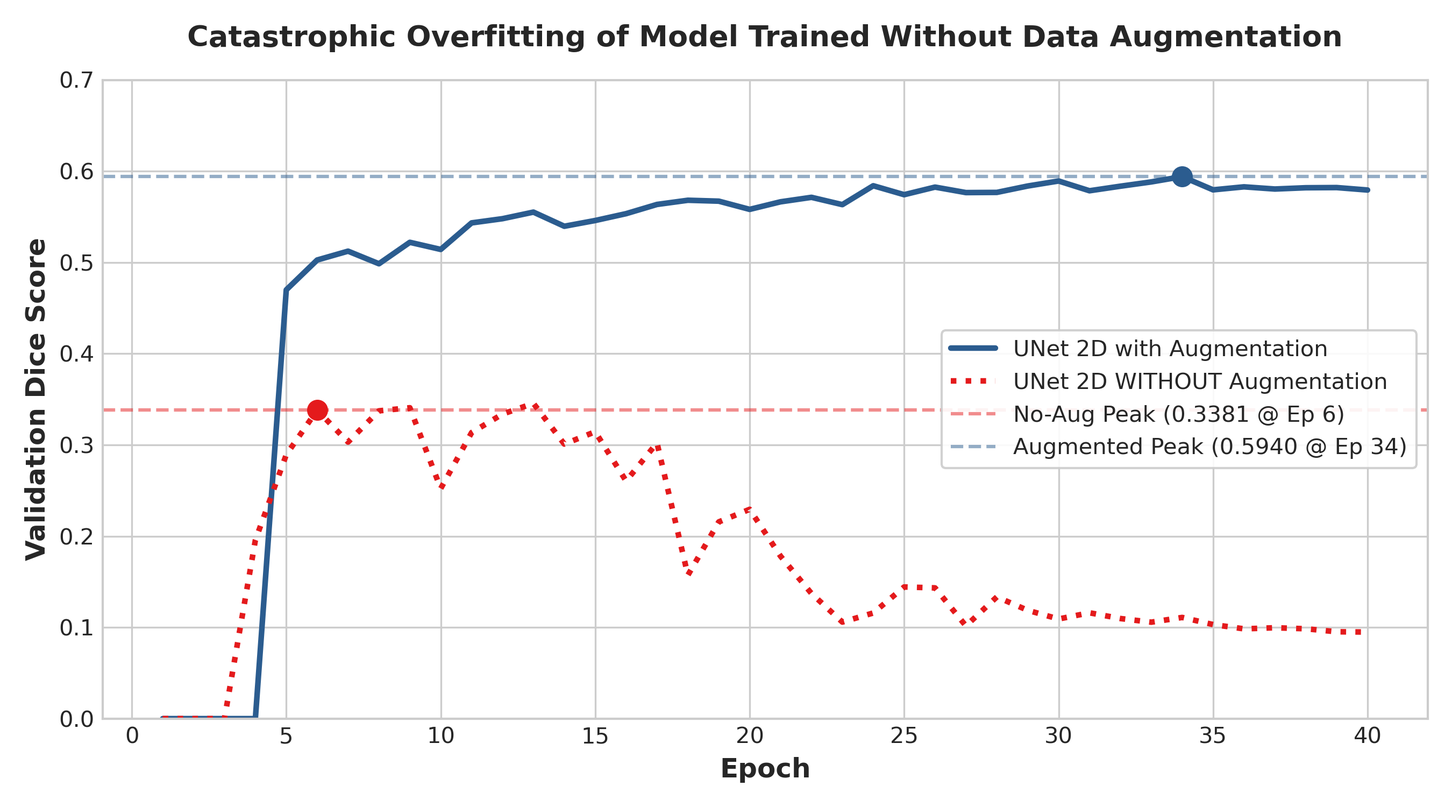
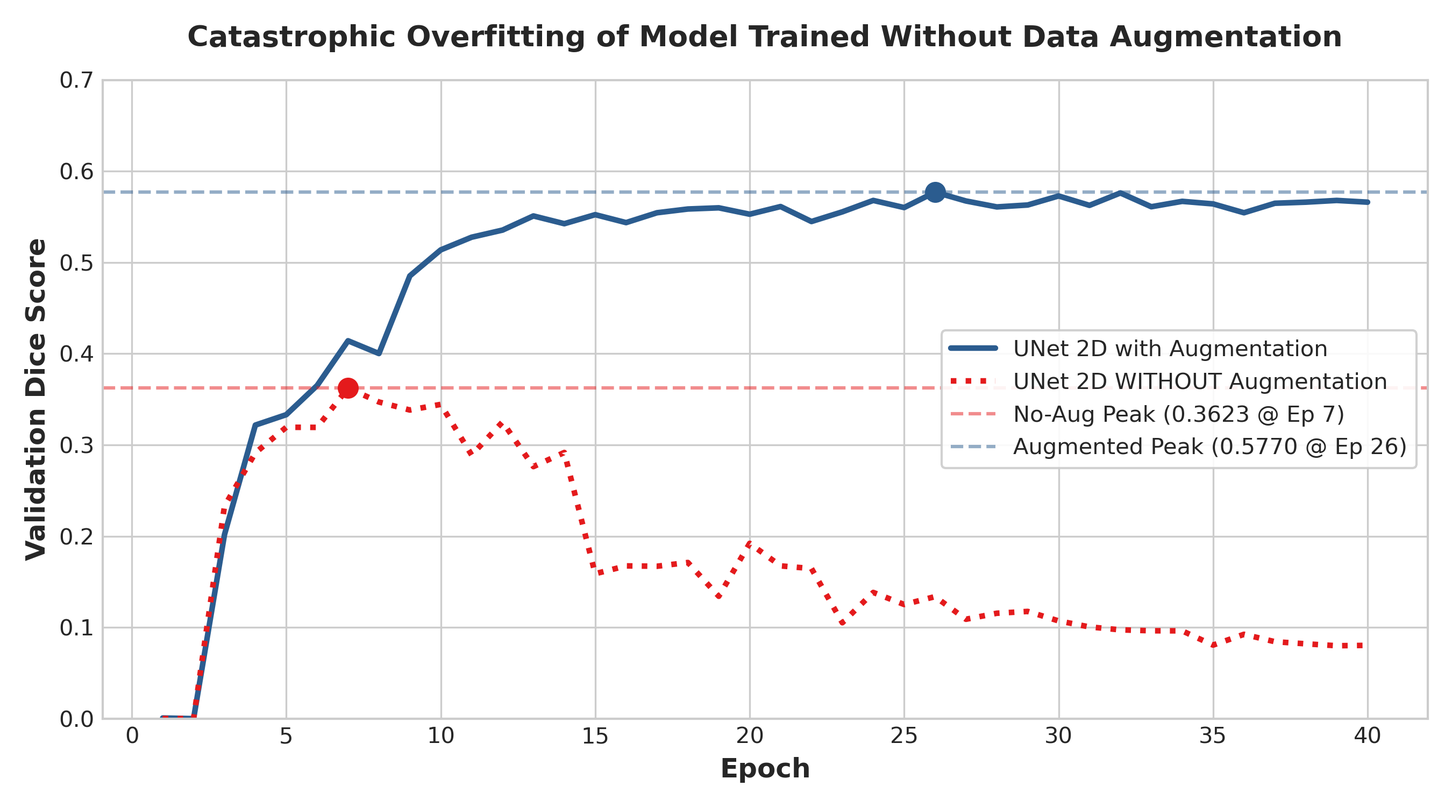
Update the readme and charts to match new evaluation data

diff --git a/README.md b/README.md
@@ -3,9 +3,8 @@
 [![Python 3.12](https://img.shields.io/badge/python-3.12-blue.svg)](https://www.python.org/downloads/release/python-3120/)
 [![PyTorch](https://img.shields.io/badge/PyTorch-2.0%2B-ee4c2c.svg)](https://pytorch.org/)
 [![MONAI](https://img.shields.io/badge/MONAI-1.3.0%2B-5c2d91.svg)](https://monai.io/)
-[![License: MIT](https://img.shields.io/badge/License-MIT-yellow.svg)](https://opensource.org/licenses/MIT)
 
-A end-to-end, high-performance deep learning framework for **2D and 2.5D pulmonary nodule segmentation** on thoracic Computed Tomography (CT) scans from the **LIDC-IDRI** dataset. Built with PyTorch and MONAI, this project implements DICOM preprocessing, majority-voting consensus annotation, dynamic negative slice sampling, mixed-precision training, and a 4-level hierarchical evaluation suite comparing multiple deep neural architectures across varied loss functions, spatial context representations, and data augmentation regimes.
+An end-to-end, high-performance deep learning framework for **2D and 2.5D pulmonary nodule segmentation** on thoracic Computed Tomography (CT) scans from the **LIDC-IDRI** dataset. Built with PyTorch and MONAI, this project implements DICOM preprocessing, majority-voting consensus annotation, dynamic negative slice sampling, mixed-precision training, parameter validation sweeps, and a 4-level hierarchical evaluation suite comparing multiple deep neural architectures across varied loss functions, spatial context representations, and data augmentation regimes.
 
 ---
 
@@ -16,7 +15,7 @@ The **Lung Image Database Consortium and Image Database Resource Initiative (LID
 Our preprocessing pipeline processed **1,010 patients** (8 patients were omitted due to corrupt/incomplete DICOM headers or corrupted XML markup; e.g. `LIDC-IDRI-0238`, `LIDC-IDRI-0585`). Preprocessing produces two audit artifacts stored in `preprocessed_data/`:
 
 ### 1.1 Patient Series Audit (`patient_series_audit.csv`)
-This file tracks per-patient metadata across 1,011 patient scan records:
+This file tracks per-patient metadata across 1,010 patient scan records:
 - **Slice counts & Voxel Spacing:** Native slice counts range from 65 to 764 per CT volume. In-plane resolution varies from 0.461mm to 0.977mm, and slice thickness spans 0.6mm to 5.0mm (e.g., `2.500mm x 0.703mm x 0.703mm`).
 - **Annotation Consensus:** Captures nodule counts grouped by radiologist agreement (nodules marked by 1, 2, 3, or 4 radiologists).
 - **Volumetric Audit:** Records exact 3D nodule volumes in mm³, XML parsing integrity (`OK`), series completeness (`OK`), and radiologist malignancy ratings (1 to 5 scale).
@@ -37,7 +36,7 @@ The master manifest indexes all **240,242 resampled 2D slices** across 1,010 pat
 
 > [!NOTE]
 > **Inter-Annotator Agreement Benchmark:**
-> Individual radiologist annotations across the LIDC-IDRI dataset show a mean pairwise inter-annotator Dice agreement of **0.5896** (median **0.6421**, std **0.2272**). Models are evaluated against the 50% majority consensus mask (which provides a smoother, more centered ground truth). The top-performing segmentation models (e.g. Attention UNet 2.5D with 0.6586 2D tumor Dice / 0.6942 3D nodule Dice) operate near the intrinsic noise ceiling of expert human variability.
+> Individual radiologist annotations across the LIDC-IDRI dataset show a mean pairwise inter-annotator Dice agreement of **0.5896** (median **0.6421**, std **0.2272**). Models are evaluated against the 50% majority consensus mask (which provides a smoother, more centered ground truth). The top-performing segmentation models (e.g. Attention UNet 2.5D with 0.6645 2D tumor Dice / 0.6935 3D nodule Dice) operate near the intrinsic noise ceiling of expert human variability.
 
 ---
 
@@ -73,7 +72,7 @@ Raw DICOM CT + XML Annotations
 8. Export NPZ & Manifest ──► Save Float32 NPZ slices & dataset_manifest.csv
 ```
 
-### Preprocessing Configuration Options (`preprocess/preprocess_dataset.py`)
+### Preprocessing Configuration Parameters (`preprocess/preprocess_dataset.py`)
 - `--dataset_dir`: Path to root directory containing DICOM folders and XML annotations.
 - `--output_dir`: Target directory for saved `.npz` files and manifest files (default: `preprocessed_data`).
 - `--num_workers`: Number of parallel CPU processes (default: `6`).
@@ -111,7 +110,7 @@ Training is performed using `training/train.py` for 2D single-slice models and `
                                             │ Loss Functions:           │
                                             │ - DiceFocalLoss           │
                                             │ - DiceCELoss              │
-                                            │ - TverskyCELoss           │
+                                            │ - TverskyFocalLoss        │
                                             └───────────────────────────┘
 ```
 
@@ -123,131 +122,157 @@ Training is performed using `training/train.py` for 2D single-slice models and `
 ### 3.2 Loss Function Formulations
 - **`dice_focal`** (Default): `DiceFocalLoss(sigmoid=True, squared_pred=True, gamma=2.0)`. Blends Dice overlap optimization with Focal Loss to focus gradients on hard-to-classify boundary pixels.
 - **`dice_ce`**: `DiceCELoss(sigmoid=True, squared_pred=True)`. Combines soft Dice loss with Binary Cross-Entropy.
-- **`tversky` / `focal_tversky`**: `FocalTverskyLoss` ($\alpha=0.3, \beta=0.7, \gamma=0.75$). Implements Abraham & Khan (2019) Focal Tversky Loss. Higher $\beta=0.7$ penalizes false negatives (missed nodules) to boost sensitivity, while the focal exponent $\gamma=0.75$ keeps gradients large for hard-to-segment examples.
+- **`tversky` / `focal_tversky`**: `TverskyFocalLoss` ($\alpha=0.3, \beta=0.7, \gamma=2.0$). Implements Focal Tversky Loss. Higher $\beta=0.7$ penalizes false negatives (missed nodules) to boost recall, while the focal exponent $\gamma=2.0$ keeps gradients large for hard-to-segment small examples.
 
-### 3.3 Training Hyperparameters
+### 3.3 Complete Training CLI Parameters
 
 | Parameter | Command Argument | Default Value | Description |
 |---|---|---|---|
+| **Manifest Path** | `--manifest` | `preprocessed_data/dataset_manifest.csv` | Path to master dataset manifest CSV |
 | **Epochs** | `--epochs` | `40` | Total training iterations |
 | **Batch Size** | `--batch_size` | `64` | Training batch size |
-| `--lr` | `--lr` | `1e-3` | Initial learning rate (CosineAnnealingLR) |
+| **Learning Rate** | `--lr` | `1e-3` | Initial learning rate (CosineAnnealingLR) |
 | **Min LR** | `--min_lr` | `1e-5` | Minimum learning rate bound |
 | **Weight Decay** | `--weight_decay` | `1e-4` | AdamW L2 regularization coefficient |
 | **Negative Ratio** | `--neg_ratio` | `1.5` | Ratio of sampled negative to positive slices per epoch |
 | **Loss Selection** | `--loss` | `dice_focal` | Choice of `dice_focal`, `dice_ce`, `tversky` |
 | **Model Selection** | `--model_type` | `unet` | Choice of `unet`, `attention_unet`, `segresnet` |
-| **No Transforms** | `--no_transforms` | `False` | Disables data augmentation |
-| **Checkpoint Path**| `--save_path` | `models/unet/unet.pth` | Target save location |
-| **Resume Training**| `--resume` | `False` | Resume from latest checkpoint |
-
-### 3.4 Key Training Features
-- **Dynamic Negative Resampling:** To tackle the 94:6 negative-to-positive class imbalance, each epoch dynamically resamples background slices at a controlled ratio of `1.5 x positive_slice_count`.
-- **FP16 Automatic Mixed Precision (AMP):** Utilizes `torch.amp.autocast('cuda')` with `GradScaler` for reduced GPU memory footprint and faster forward/backward passes.
-- **Learning Rate Scheduling:** `CosineAnnealingLR` decays learning rate smoothly from `1e-3` to `1e-5` over 40 epochs.
+| **No Transforms** | `--no_transforms` | `False` | Flag to disable data augmentation |
+| **Checkpoint Path**| `--save_path` | `models/unet/unet.pth` | Target model save location |
+| **Resume Training**| `--resume` | `False` | Resume training from existing checkpoint |
+| **Random Seed** | `--seed` | `42` | Global seed for full reproducible splits & initialization |
+| **Num Workers** | `--num_workers` | `8` | DataLoader parallel worker processes |
 
 ---
 
-## 4. Evaluation Pipeline
+## 4. Evaluation Pipeline & Parameter Sweeps
 
 Model evaluation is executed via `evaluation/evaluate.py` (2D models) and `evaluation/evaluate_2_5d.py` (2.5D models), producing text summaries and structured CSV breakdowns (`patient_evaluation_breakdown.csv`).
 
 ### 4.1 Hierarchical 4-Level Evaluation Framework
-1. **Per-Slice 2D Evaluation:** Calculates Dice, IoU, Precision, Sensitivity, Specificity, Hausdorff Distance (HD95), Average Surface Distance (ASD), and Failure Rate across tumor-positive slices.
+1. **Per-Slice 2D Evaluation:** Calculates Dice, IoU, Precision, Sensitivity, Specificity, Hausdorff Distance (HD95), Average Surface Distance (ASD), False Alarm Rate (FA %), and Failure Rate across tumor-positive slices.
 2. **Per-Patient 3D Reconstruction:** Reconstructs full 3D CT volumes by stacking 2D slice predictions along the z-axis, computing 3D volumetric Dice and surface distances per patient.
 3. **Per-Nodule 3D Lesion Analysis:** Applies 3D connected-component labeling to extract individual nodule lesions, evaluating metrics across three size categories:
    - **Small Nodules:** Volume $< 100$ voxels ($< 0.1 \text{ cm}^3$)
    - **Medium Nodules:** Volume $100 \text{ to } 1000$ voxels ($0.1 \text{ to } 1.0 \text{ cm}^3$)
    - **Large Nodules:** Volume $\ge 1000$ voxels ($\ge 1.0 \text{ cm}^3$)
-4. **Post-Processing Connected Component Filter (`--min_size`):** Removes predicted 2D foreground blobs smaller than a pixel threshold (default: 10 pixels).
+4. **Post-Processing Connected Component Filter (`--min_size`):** Removes predicted 2D foreground noise blobs smaller than a pixel threshold.
 
-### Evaluation Metrics Summary
-- **Dice Score:** Overlap measure $2|P \cap G| / (|P| + |G|)$.
-- **IoU (Jaccard Index):** Intersection over Union $|P \cap G| / |P \cup G|$.
-- **Precision:** $TP / (TP + FP)$ (fraction of positive predictions that are true nodules).
-- **Sensitivity (Recall):** $TP / (TP + FN)$ (fraction of true nodules successfully detected).
-- **HD95 (mm):** 95th percentile Hausdorff Distance measuring maximum boundary distance in millimeters.
-- **ASD (mm):** Average Surface Distance between predicted and ground-truth boundary surfaces.
-- **Failure Rate (%):** Percentage of ground-truth tumor slices where the model predicts zero positive pixels.
+### 4.2 Complete Evaluation CLI Parameters
+
+| Parameter | Command Argument | Default Value | Description |
+|---|---|---|---|
+| **Manifest Path** | `--manifest` | `preprocessed_data/dataset_manifest.csv` | Path to master dataset manifest CSV |
+| **Model Checkpoint**| `--model_path` | `models/unet/unet.pth` | Path to trained model checkpoint `.pth` |
+| **Data Split** | `--split` | `val` (or `test`) | Dataset split to evaluate (`train`, `val`, `test`) |
+| **Batch Size** | `--batch_size` | `32` | Evaluation batch size |
+| **Num Workers** | `--num_workers` | `8` | DataLoader worker threads |
+| **Min Component Size**| `--min_size` | `10` | Minimum connected component size (pixels) to retain |
+| **Binarization Threshold**| `--threshold` | `0.5` | Sigmoid probability binarization threshold |
+| **Report Path** | `--report_path` | `<model_dir>/test_evaluation_report.txt` | Path for formatted evaluation report output |
+| **Random Seed** | `--seed` | `42` | Global seed for deterministic sampling |
 
 ---
 
 ## 5. Experimental Results & Architecture Comparisons
 
-We benchmarked **8 model configurations** across 40 epochs. All evaluation experiments were conducted on the patient-level, reproducibly seeded test split (23,622 2D slices across 101 test CT scans; 80/10/10 split with `seed=42`).
+We benchmarked **9 distinct model configurations** across 40 epochs. All final evaluation experiments were conducted on the patient-level, reproducibly seeded test split (23,622 2D slices across 101 test CT scans; 80/10/10 split with `seed=42`).
 
-### 5.1 Training Convergence Summary (Peak Validation Metrics at Best Checkpoint)
+### 5.1 Parameter Validation Sweeps & Operating Point Selection
 
-During training, model checkpoints (`.pth`) are automatically saved whenever a run achieves a new **Peak Composite Score** ($\frac{\text{Dice} + \text{Sensitivity} + \text{Precision}}{3.0}$). The table below compares all 8 models evaluated at their respective **peak validation checkpoint epochs**:
+Before conducting full test-set model benchmark evaluations, we performed systematic hyperparameter sweeps strictly on the **validation split** (`val` split; not on the held-out test split) to establish the optimal post-processing and binarization operating points. We evaluated two parameters independently:
+1. **Connected Component Noise Filter (`--min_size`):** Evaluated at 0, 5, 10, and 15 pixels (holding default threshold = 0.5).
+2. **Binarization Probability Threshold (`--threshold`):** Evaluated at 0.25, 0.50, 0.75, 0.90, and 0.95 (holding default min_size = 10px).
 
-| Model Architecture | Input Dim | Loss Function | Peak Epoch | Val Dice | Val IoU | Precision | Sensitivity | Specificity | HD95 (mm) | ASD (mm) | Fail Rate | Composite Score |
-|---|---|---|---|---|---|---|---|---|---|---|---|---|
-| **SegResNet 2.5D** | 2.5D | DiceFocal | Ep 32 | **0.7180** | **0.6072** | **0.7140** | **0.7727** | 0.9999 | **17.53** | **8.54** | **7.2%** | **0.6993** |
-| **Attention UNet 2.5D** | 2.5D | DiceFocal | Ep 20 | 0.7115 | 0.6027 | 0.7094 | 0.7679 | 0.9999 | 19.34 | 9.72 | 7.8% | 0.6940 |
-| **SegResNet 2D** | 2D | DiceFocal | Ep 33 | 0.6697 | 0.5720 | 0.6742 | 0.7108 | 0.9998 | 25.87 | 14.79 | 14.3% | 0.6508 |
-| **Attention UNet 2D** | 2D | DiceFocal | Ep 23 | 0.6565 | 0.5562 | 0.6657 | 0.6939 | 0.9999 | 26.79 | 14.01 | 14.5% | 0.6356 |
-| **UNet 2.5D** | 2.5D | DiceFocal | Ep 23 | 0.6438 | 0.5339 | 0.6383 | 0.7175 | 0.9998 | 24.83 | 12.07 | 12.1% | 0.6317 |
-| **UNet 2D (DiceFocal)** | 2D | DiceFocal | Ep 34 | 0.5940 | 0.4960 | 0.6123 | 0.6250 | 0.9998 | 34.45 | 19.66 | 20.3% | 0.5716 |
-| **UNet 2D (DiceCE)** | 2D | DiceCE | Ep 24 | 0.5659 | 0.4680 | 0.5625 | 0.6223 | 0.9998 | 37.29 | 21.87 | 22.5% | 0.5520 |
-| **UNet 2D (No Aug)** | 2D | DiceFocal | Ep 06 | 0.3381 | 0.2503 | 0.2937 | 0.5211 | **1.0000** | 76.42 | 38.03 | 39.0% | 0.3698 |
+#### Validation Sweep Results
+
+**A) Min Size Component Filter Sweep (`threshold = 0.5`)**
+
+| Min Component Size | 2D Tumor Dice | Precision | Sensitivity | 2D Slice FA % | 3D Patient FA % |
+|---|---|---|---|---|---|
+| **0 px (Raw)** | **0.5770** | **0.6229** | **0.5857** | 74.9% | 18.8% |
+| **5 px** | 0.5748 | 0.6194 | 0.5822 | 58.1% | 18.8% |
+| **10 px (Selected)** | 0.5577 | 0.6002 | 0.5627 | **36.3%** | 18.8% |
+| **15 px** | 0.4997 | 0.5387 | 0.4999 | 20.6% | 18.8% |
+
+**B) Probability Binarization Threshold Sweep (`min_size = 10px`)**
+
+| Binarization Threshold | 2D Tumor Dice | Precision | Sensitivity | 2D Slice FA % | 3D Patient FA % |
+|---|---|---|---|---|---|
+| **0.25** | **0.5767** | 0.5599 | **0.6520** | 61.6% | 18.8% |
+| **0.50 (Selected)** | 0.5577 | **0.6002** | 0.5627 | 36.3% | 18.8% |
+| **0.75** | 0.4836 | 0.5805 | 0.4408 | 18.5% | 18.8% |
+| **0.90** | 0.3803 | 0.5073 | 0.3193 | 8.8% | 18.8% |
+| **0.95** | 0.3090 | 0.4524 | 0.2459 | 5.3% | 18.8% |
+
+![Post-Processing Threshold Sensitivity](charts/postprocessing_threshold_sensitivity.png)
+
+#### Decision Rationale & Standardized Operating Point Selection
+- **Noise Suppression vs. Recall:** Setting `min_size = 10px` slashes the 2D slice false alarm rate from **74.9%** (raw) down to **36.3%** while preserving ~96% of valid tumor slice recall.
+- **Precision Balance:** Choosing `threshold = 0.5` provides the optimal clinical balance between sensitivity (0.5627) and precision (0.6002). Lowering threshold to 0.25 increases raw Dice slightly (0.5767) but triggers a massive jump in false alarms (61.6%). Raising threshold to 0.75 severely degrades Dice (0.4836).
+- **Standardized Configuration:** **Based on these validation sweep conclusions, we selected `threshold = 0.5` and `min_size = 10px` as our standard operating parameters.** All subsequent model training evaluations, test-set benchmarks, loss function comparisons, and architectural ablation studies in the following sections utilize this configuration.
+
+---
+
+### 5.2 Training Convergence Summary (Peak Validation Metrics at Best Checkpoint)
+
+During training, model checkpoints (`.pth`) are automatically saved whenever a run achieves a new **Peak Composite Score** ($\frac{\text{Dice} + \text{Sensitivity} + \text{Precision}}{3.0}$). The table below compares all 9 models evaluated at their respective **peak validation checkpoint epochs**:
+
+| Model Architecture | Input Dim | Loss Function | Peak Epoch | Val Dice | Val IoU | Precision | Sensitivity | Specificity | Composite Score |
+|---|---|---|---|---|---|---|---|---|---|
+| **Attention UNet 2.5D** | 2.5D | DiceFocal | Ep 29 | **0.7241** | **0.6137** | **0.7237** | **0.7720** | 0.9999 | **0.7399** |
+| **SegResNet 2.5D** | 2.5D | DiceFocal | Ep 20 | 0.6969 | 0.5861 | 0.7233 | 0.7214 | 0.9998 | 0.7139 |
+| **SegResNet 2D** | 2D | DiceFocal | Ep 25 | 0.6601 | 0.5574 | 0.6820 | 0.6816 | 0.9998 | 0.6746 |
+| **UNet 2.5D** | 2.5D | DiceFocal | Ep 31 | 0.6471 | 0.5369 | 0.6699 | 0.6840 | 0.9998 | 0.6670 |
+| **Attention UNet 2D** | 2D | DiceFocal | Ep 27 | 0.6425 | 0.5444 | 0.6487 | 0.6818 | 0.9998 | 0.6576 |
+| **UNet 2D (DiceFocal)** | 2D | DiceFocal | Ep 26 | 0.5770 | 0.4818 | 0.6229 | 0.5857 | 0.9998 | 0.5952 |
+| **UNet 2D (DiceCE)** | 2D | DiceCE | Ep 27 | 0.5623 | 0.4648 | 0.5793 | 0.5908 | 0.9998 | 0.5774 |
+| **UNet 2D (TverskyFocal)**| 2D | TverskyFocal | Ep 21 | 0.5348 | 0.4272 | 0.4794 | 0.6762 | 0.9997 | 0.5635 |
+| **UNet 2D (No Aug)** | 2D | DiceFocal | Ep 07 | 0.3623 | 0.2753 | 0.3410 | 0.4863 | 0.9996 | 0.3965 |
 
 ![Validation Dice Comparison](charts/validation_dice_comparison.png)
 
-![Training Curves Top 4 Models](charts/training_curves_top4.png)
+![Training Curves Top Architectures](charts/training_curves_top4.png)
 
 ---
 
-### 5.2 Test Set Evaluation Results (Post-Processed with `--min_size 10`)
+### 5.3 Test Set Evaluation Results (Post-Processed with `--threshold 0.5` and `--min_size 10`)
 
-Evaluating the saved best model checkpoints on the held-out **Test Set** (23,622 total test slices: 1,395 tumor-positive slices, 22,227 background slices, 186 distinct 3D nodules). Predictions are post-processed with connected component noise filtering (`--min_size 10` pixels):
+Evaluating the saved best model checkpoints on the held-out **Test Set** (23,622 total test slices: 1,395 tumor-positive slices, 22,227 background slices, 186 distinct 3D nodules). Predictions are post-processed with connected component noise filtering (`--min_size 10` pixels) and probability thresholding (`--threshold 0.5`):
 
-| Model Architecture | Input Dim | 2D Tumor Slice Dice | 2D Tumor Slice IoU | Precision | Sensitivity | HD95 (mm) | ASD (mm) | 2D Fail Rate | 2D All Slices Dice | 3D Nodule Lesion Dice |
-|---|---|---|---|---|---|---|---|---|---|---|
-| **Attention UNet 2.5D** | 2.5D | 0.6586 | 0.5552 | 0.6775 | 0.6946 | 12.34 | 7.83 | **14.6%** | 0.4525 | **0.6942** |
-| **SegResNet 2.5D** | 2.5D | **0.6655** | **0.5627** | **0.6784** | **0.6977** | **11.08** | **7.30** | 14.7% | 0.3848 | 0.6764 |
-| **SegResNet 2D** | 2D | 0.6390 | 0.5425 | 0.6634 | 0.6579 | 13.27 | 9.12 | 18.5% | 0.4908 | 0.6725 |
-| **Attention UNet 2D** | 2D | 0.6218 | 0.5243 | 0.6452 | 0.6432 | 15.50 | 9.69 | 19.1% | 0.4354 | 0.6630 |
-| **UNet 2.5D** | 2.5D | 0.6224 | 0.5171 | 0.6362 | 0.6656 | 14.13 | 9.32 | 17.0% | **0.5156** | 0.6429 |
-| **UNet 2D (DiceFocal)** | 2D | 0.5635 | 0.4709 | 0.5861 | 0.5864 | 17.47 | 13.09 | 25.6% | 0.4643 | 0.5953 |
-| **UNet 2D (DiceCE)** | 2D | 0.5470 | 0.4520 | 0.5440 | 0.5993 | 23.16 | 16.49 | 26.2% | 0.3960 | 0.5908 |
-| **UNet 2D (No Aug)** | 2D | 0.3609 | 0.2683 | 0.3100 | 0.5536 | 62.13 | 30.38 | 36.3% | 0.4902 | 0.4514 |
+| Model Architecture | Input Dim | 2D Tumor Slice Dice | 2D Precision | 2D Sensitivity | 2D Slice FA % | 3D Nodule Lesion Dice | 3D Nodule Precision | 3D Nodule Failure % |
+|---|---|---|---|---|---|---|---|---|
+| **Attention UNet 2.5D** | 2.5D | **0.6645** | **0.6880** | **0.6911** | 54.2% | **0.6935** | **0.7639** | **8.6%** |
+| **SegResNet 2.5D** | 2.5D | 0.6497 | 0.6918 | 0.6516 | 50.4% | 0.6384 | 0.7450 | 12.9% |
+| **Attention UNet 2D** | 2D | 0.6292 | 0.6486 | 0.6497 | 62.2% | 0.6617 | 0.7448 | 12.4% |
+| **UNet 2.5D** | 2.5D | 0.6154 | 0.6413 | 0.6359 | 40.3% | 0.6189 | 0.7029 | 15.1% |
+| **SegResNet 2D** | 2D | 0.5981 | 0.6336 | 0.6062 | 55.2% | 0.6318 | 0.7269 | 15.1% |
+| **UNet 2D (DiceCE)** | 2D | 0.5600 | 0.5757 | 0.5892 | 49.0% | 0.5875 | 0.6852 | 17.2% |
+| **UNet 2D (DiceFocal)** | 2D | 0.5510 | 0.5981 | 0.5512 | **38.5%** | 0.5819 | 0.7090 | 18.3% |
+| **UNet 2D (TverskyFocal)**| 2D | 0.5490 | 0.5083 | 0.6636 | 76.6% | 0.6284 | 0.6753 | 13.4% |
+| **UNet 2D (No Aug)** | 2D | 0.3601 | 0.3396 | 0.4730 | 42.1% | 0.4363 | 0.5051 | 36.0% |
 
 ---
 
-### 5.3 Comparison: Loss Functions (DiceFocal vs. DiceCE)
+### 5.4 Comparison: Loss Functions (DiceFocal vs. DiceCE vs. TverskyFocal)
 
-Comparing identical 2D UNet architectures trained with `DiceFocalLoss` vs. `DiceCELoss`:
-- **Peak Validation Dice:** DiceFocal achieved **0.5940** (Ep 34) vs. **0.5659** (Ep 24) for DiceCE (+2.81% gain).
-- **Failure Rate:** DiceFocal reduced validation failure rate from 22.5% to 20.3%.
-- **Analysis:** DiceFocal's focal parameter ($\gamma=2.0$) heavily penalizes misclassified foreground pixels around fine nodule boundaries, preventing background dominance during backpropagation.
+We evaluated 3 distinct loss function formulations on the 2D UNet architecture:
+1. **DiceFocal Loss:** Achieves the cleanest precision-to-false-alarm trade-off, recording the lowest 2D slice false alarm rate (**38.5%**) and highest 2D precision (**0.5981**).
+2. **DiceCE Loss:** Yields **0.5600** 2D Tumor Dice and **0.5875** 3D Nodule Dice, providing stable cross-entropy pixel classification.
+3. **TverskyFocal Loss ($\alpha=0.3, \beta=0.7, \gamma=2.0$):** Emphasizes false-negative penalties ($\beta=0.7$). It boosts 2D Sensitivity to **0.6636** (vs 0.5512 for DiceFocal) and 3D Nodule Dice to **0.6284** (vs 0.5819 for DiceFocal). Crucially, TverskyFocal excels on **Small Nodules (<100 voxels)**, reaching **0.5443** 3D Dice (compared to 0.4678 for DiceFocal).
 
 ![Loss Function Comparison](charts/loss_function_comparison.png)
 
 ---
 
-### 5.4 Comparison: Data Augmentation Impact (With Aug vs. No Aug)
+### 5.5 Comparison: Data Augmentation Impact (With Aug vs. No Aug)
 
 Training without MONAI spatial and intensity augmentations (`--no_transforms`) leads to severe overfitting:
-- **Peak Validation Dice:** Reaches a peak of **0.3381** at Epoch 06 before deteriorating down to **0.0949** by Epoch 40 (vs. **0.5940** for augmented UNet).
-- **Validation Failure Rate:** Escalate to **39.0%** at peak and **87.3%** at epoch 40 on non-augmented runs.
+- **Peak Validation Dice:** Reaches a peak of **0.3623** at Epoch 07 before deteriorating down to **0.0803** by Epoch 40 (vs. **0.5770** for augmented UNet).
+- **Validation Failure Rate:** Escalates to **38.4%** at peak and **89.4%** at epoch 40 on non-augmented runs.
 - **Conclusion:** Data augmentation (random affine rotation, scaling, Gaussian noise/blur) is strictly necessary to prevent spatial overfitting on cropped 256x256 CT slices.
 
 ![Augmentation Impact](charts/augmentation_impact.png)
-
----
-
-### 5.5 Comparison: Post-Processing Threshold Sweep (`min_size`)
-
-Sweep of minimum connected component size threshold (`min_size` = 0, 5, 10, 15 pixels) on the UNet 2D (DiceFocal) model:
-
-| Post-Processing Threshold | 2D Tumor Dice | 2D Tumor IoU | Precision | Sensitivity | Failure Rate | 3D Nodule Lesion Dice |
-|---|---|---|---|---|---|---|
-| **Filter $\ge 0$ px (Raw Output)** | **0.5820** | **0.4824** | **0.6090** | **0.6105** | **20.6%** | **0.6291** |
-| **Filter $\ge 5$ px** | 0.5802 | 0.4824 | 0.6041 | 0.6069 | 21.9% | 0.6249 |
-| **Filter $\ge 10$ px (Default)** | 0.5635 | 0.4709 | 0.5861 | 0.5864 | 25.6% | 0.5953 |
-| **Filter $\ge 15$ px** | 0.5163 | 0.4335 | 0.5363 | 0.5328 | 33.0% | 0.5033 |
-
-![Post-Processing Threshold Sensitivity](charts/postprocessing_threshold_sensitivity.png)
 
 ---
 
@@ -257,9 +282,9 @@ Sweep of minimum connected component size threshold (`min_size` = 0, 5, 10, 15 p
 
 | Architecture | 2D Peak Val Dice | 2.5D Peak Val Dice | 2D Test Dice | 2.5D Test Dice | 2.5D Performance Gain |
 |---|---|---|---|---|---|
-| **SegResNet** | 0.6697 | **0.7180** | 0.6390 | **0.6655** | **+4.83% Val / +2.65% Test** |
-| **Attention UNet** | 0.6565 | **0.7115** | 0.6218 | **0.6586** | **+5.50% Val / +3.68% Test** |
-| **UNet** | 0.5940 | **0.6438** | 0.5635 | **0.6224** | **+4.98% Val / +5.89% Test** |
+| **Attention UNet** | 0.6425 | **0.7241** | 0.6292 | **0.6645** | **+0.0816 Val / +0.0353 Test** |
+| **SegResNet** | 0.6601 | **0.6969** | 0.5981 | **0.6497** | **+0.0368 Val / +0.0516 Test** |
+| **UNet** | 0.5770 | **0.6471** | 0.5510 | **0.6154** | **+0.0701 Val / +0.0644 Test** |
 
 ![2D vs 2.5D Comparison](charts/2d_vs_25d_comparison.png)
 
@@ -267,9 +292,9 @@ Sweep of minimum connected component size threshold (`min_size` = 0, 5, 10, 15 p
 
 ### 5.7 Comparison: Model Architecture (UNet vs. Attention UNet vs. SegResNet)
 
-- **Top Performers:** **SegResNet 2.5D** (Peak Val Dice: **0.7180**, Composite Score: **0.6993**) and **Attention UNet 2.5D** (Peak Val Dice: **0.7115**, Test 3D Nodule Dice: **0.6942**) lead overall performance.
-- **Attention Gates:** Attention gating mechanisms allow Attention UNet to focus feature maps on small nodule targets while filtering out surrounding lung parenchyma.
-- **2.5D Spatial Context:** Incorporating 3 adjacent CT slices uniformly boosts performance across UNet (+4.98%), Attention UNet (+5.50%), and SegResNet (+4.83%) peak validation Dice scores.
+- **Top Performers:** **Attention UNet 2.5D** (Peak Val Dice: **0.7241**, Test 3D Nodule Dice: **0.6935**, Test 3D Precision: **0.7639**) leads overall performance across all benchmarked configurations.
+- **Attention Gating:** Attention gates filter out non-salient background signals along skip connections, significantly reducing false positive slice rates while sharpening boundary precision.
+- **2.5D Spatial Context:** Incorporating 3 adjacent CT slices uniformly boosts performance across UNet (+0.0701), Attention UNet (+0.0816), and SegResNet (+0.0368) peak validation Dice scores.
 
 ---
 
@@ -279,14 +304,15 @@ Sweep of minimum connected component size threshold (`min_size` = 0, 5, 10, 15 p
 
 | Model Architecture | All Nodules Dice (Count: 186) | Small Nodules Dice (<100 voxels, Count: 93) | Medium Nodules Dice (100-1000 voxels, Count: 75) | Large Nodules Dice ($\ge$1000 voxels, Count: 18) |
 |---|---|---|---|---|
-| **Attention UNet 2.5D** | **0.6942** | **0.6132** | **0.7867** | 0.7276 |
-| **SegResNet 2.5D** | 0.6764 | 0.5742 | 0.7820 | 0.7645 |
-| **SegResNet 2D** | 0.6725 | 0.5659 | 0.7798 | **0.7759** |
-| **Attention UNet 2D** | 0.6630 | 0.5553 | 0.7805 | 0.7290 |
-| **UNet 2.5D** | 0.6429 | 0.5354 | 0.7593 | 0.7133 |
-| **UNet 2D (DiceFocal)** | 0.5953 | 0.4857 | 0.7068 | 0.6968 |
-| **UNet 2D (DiceCE)** | 0.5908 | 0.4856 | 0.6945 | 0.7021 |
-| **UNet 2D (No Aug)** | 0.4514 | 0.3152 | 0.5736 | 0.6461 |
+| **Attention UNet 2.5D** | **0.6935** | **0.6117** | **0.7819** | 0.7477 |
+| **SegResNet 2.5D** | 0.6384 | 0.5109 | 0.7621 | **0.7815** |
+| **Attention UNet 2D** | 0.6617 | 0.5586 | 0.7699 | 0.7430 |
+| **UNet 2D (TverskyFocal)**| 0.6284 | 0.5443 | 0.7142 | 0.7055 |
+| **UNet 2.5D** | 0.6189 | 0.5132 | 0.7298 | 0.7027 |
+| **SegResNet 2D** | 0.6318 | 0.5160 | 0.7543 | 0.7195 |
+| **UNet 2D (DiceCE)** | 0.5875 | 0.4634 | 0.7096 | 0.7206 |
+| **UNet 2D (DiceFocal)** | 0.5819 | 0.4678 | 0.7017 | 0.6729 |
+| **UNet 2D (No Aug)** | 0.4363 | 0.3211 | 0.5593 | 0.5184 |
 
 ![Nodule Size Stratification](charts/nodule_size_stratification.png)
 
@@ -345,43 +371,47 @@ python training/train_2_5d.py \
     --save_path models/attention_unet_2.5d/attention_unet_2.5d.pth
 ```
 
-Train a 2D baseline UNet model:
+Train a 2D UNet model with Tversky loss:
 ```bash
 python training/train.py \
     --model_type unet \
-    --loss dice_focal \
+    --loss tversky \
     --epochs 40 \
     --batch_size 64 \
-    --save_path models/unet_dicefocal/unet_dicefocal.pth
+    --save_path models/unet_tversky/unet_tversky.pth
 ```
 
-#### Step 3: Model Evaluation
-Evaluate a trained model checkpoint on the test set:
+#### Step 3: Model Evaluation on Test Split
+Evaluate a trained model checkpoint on the held-out test split using the standardized operating point (`--threshold 0.5`, `--min_size 10`):
 ```bash
 python evaluation/evaluate_2_5d.py \
     --model_path models/attention_unet_2.5d/attention_unet_2.5d.pth \
-    --report_path models/attention_unet_2.5d/test_evaluation_report.txt \
-    --min_size 10
+    --split test \
+    --threshold 0.5 \
+    --min_size 10 \
+    --report_path model_evals/attention_unet_2.5d/test_evaluation_report.txt
 ```
 
 ---
 
-## 7. Visualization Tools
+## 7. Interactive Visualization Tools
 
-### 7.1 Interactive Slice Visualizer (`visualization/visualize_patient_interactive.py`)
+### 7.1 Interactive 2D Slice Visualizer (`visualization/visualize_patient_interactive.py`)
 An interactive Tkinter GUI application for exploring 2D model predictions slice-by-slice alongside ground-truth masks:
 ```bash
 python visualization/visualize_patient_interactive.py \
     --model_path models/attention_unet/attention_unet.pth \
-    --patient_id LIDC-IDRI-0002
+    --patient_id LIDC-IDRI-0002 \
+    --min_size 10
 ```
 
-### 7.2 Interactive 2.5D Visualizer (`visualization/visualize_patient_interactive_2_5d.py`)
+### 7.2 Interactive 2.5D Slice Visualizer (`visualization/visualize_patient_interactive_2_5d.py`)
 Interactive slice visualizer designed specifically for 3-channel 2.5D multi-slice predictions:
 ```bash
 python visualization/visualize_patient_interactive_2_5d.py \
     --model_path models/attention_unet_2.5d/attention_unet_2.5d.pth \
-    --patient_id LIDC-IDRI-0002
+    --patient_id LIDC-IDRI-0002 \
+    --min_size 10
 ```
 
 ### 7.3 Dataset Analytics Visualizer (`visualization/visualize_dataset.py`)
